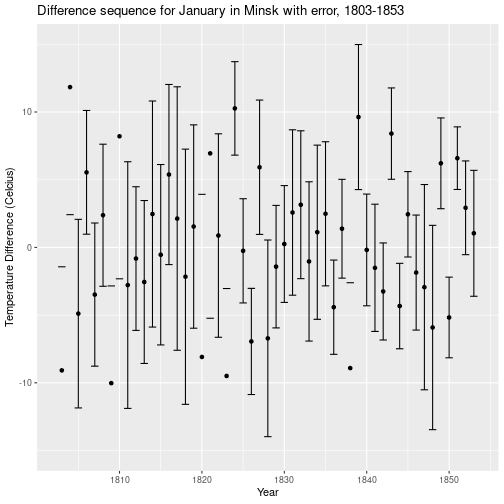
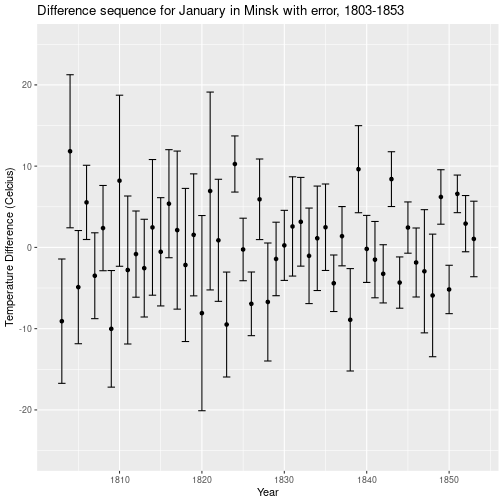
Latex Implementation

diff --git a/workspace.md b/workspace.md
@@ -184,16 +184,16 @@ time, which would indicate provable evidence of global warming.</p>
 
 ## Statistical Testing
 
-<p>I will first try a basic test, asking if the yearly difference sequence has a mean greater than zero, which would certainly imply increase in temperature over time. I will be using a significance level of \alpha = 0.05. I will perform this test on each month in turn, thus obtaining 12 complete tests for each location.</p>
+<p>My first test will be the most basic, asking if the yearly difference sequence has a mean greater than zero (which would certainly imply increase in temperature over time). I will perform this test on each month in turn, thus obtaining 12 complete tests for each location. This will also mean I need to be careful in my choice of significance level (&alpha;) if I want to contain the Family Wise Error Rate at 5% (more on this later).</p>
 
-<p>Some alternative methods include the following:</p>
+<p>My initial ideas for alternative testing methods include the following:</p>
 
 * Define a suitable year range (e.g. 1750-1900) as a "control" period, and testing if recent measurements fit within the control temperature distribution.
-* Take only the yearly highest temperatures, and perform the difference sequence test.
+* Take only the yearly highest temperatures, and perform the difference sequence test as before.
 
 ### Difference Sequence Generation
 
-First, obtain seperate data for each month and then convert the absolute data into yearly differences:
+For our first test, we want to split our data by month, and then convert the absolute temperature data into yearly differences:
 
 
 ```r
@@ -262,25 +262,31 @@ We need to bear uncertainty in mind, since the error in this data is quite signi
 
 
 ```r
-ggplot(minsk_data_month_diff[["Jan"]][c(50:100),]) + geom_point(aes(x = Date, y = Difference))  + geom_errorbar(aes(x = Date, y = Difference, ymin=Difference-DifferenceUncertainty, ymax=Difference+DifferenceUncertainty)) +ggtitle("Difference sequence for January in Minsk with error, 1803-1853") + xlab("Year") + ylab("Temperature Difference (Celcius)") + ylim(-15,15)
+ggplot(minsk_data_month_diff[["Jan"]][c(50:100),]) + geom_point(aes(x = Date, y = Difference))  + geom_errorbar(aes(x = Date, y = Difference, ymin=Difference-DifferenceUncertainty, ymax=Difference+DifferenceUncertainty)) +ggtitle("Difference sequence for January in Minsk with error, 1803-1853") + xlab("Year") + ylab("Temperature Difference (Celcius)") + ylim(-25,25)
 ```
 
 ![plot of chunk unnamed-chunk-14](Figures/EDA/EDA-unnamed-chunk-14-1.png)
 
 ```r
-ggplot(minsk_data_month_diff[["Jan"]][c(200:250),]) + geom_point(aes(x = Date, y = Difference))  + geom_errorbar(aes(x = Date, y = Difference, ymin=Difference-DifferenceUncertainty, ymax=Difference+DifferenceUncertainty)) +ggtitle("Difference sequence for January in Minsk with error, 1953-2003") + xlab("Year") + ylab("Temperature Difference (Celcius)") + ylim(-15,15)
+ggplot(minsk_data_month_diff[["Jan"]][c(200:250),]) + geom_point(aes(x = Date, y = Difference))  + geom_errorbar(aes(x = Date, y = Difference, ymin=Difference-DifferenceUncertainty, ymax=Difference+DifferenceUncertainty)) +ggtitle("Difference sequence for January in Minsk with error, 1953-2003") + xlab("Year") + ylab("Temperature Difference (Celcius)") + ylim(-25,25)
 ```
 
 ![plot of chunk unnamed-chunk-14](Figures/EDA/EDA-unnamed-chunk-14-2.png)
 
+As we can now see, the later difference values yield greatly reduced error bounds.
+
+
+
 ### Hypothesis Testing
 
-Now that we have our transformed difference sequence (X<sub>1</sub>,X<sub>2</sub>,...,X<sub>N</sub>), I will divide by the empirical standard deviation and test the following hypothesis.
+Now that we have our transformed difference sequences (X<sub>1</sub>,X<sub>2</sub>,...,X<sub>N</sub>) for each month, I will divide by the empirical standard deviation and test the following hypothesis:
 
-* H<sub>0</sub>: X<sub>1</sub>,...,X<sub>N</sub>$ ~ i.i.d normal(0,1)
-* H<sub>1</sub>: X<sub>1</sub>,...,X<sub>N</sub>$ ~ i.i.d normal(&mu;,1)   where &mu; > 0
+* H<sub>0</sub>: X<sub>1</sub>,...,X<sub>N</sub> ~ i.i.d normal(0,1)
+* H<sub>1</sub>: X<sub>1</sub>,...,X<sub>N</sub> ~ i.i.d normal(&mu;,1)   where &mu; > 0
 
-We want our test statistic here to be the most powerful possible (smallest type II error rate), which by the Neyman-Pearson Lemma is equivelant the mean of the difference sequence. For a proof of this, please see Section A in the appendix. With my data split into months, I can gather 12 p-values per year of data.
+Our null hypothesis is that the temperature has remained constant, and the alternative is that there has been an overall (but unspecified) increase in temperature. This is a one-tailed test, as our aim is to detect a positive increase in temperature change.
+
+We want our test statistic here to be the most powerful possible (smallest type II error rate), which by the Neyman-Pearson Lemma is equivelant the mean of the difference sequence. For a proof of this, please see Section A of the Appendix. With my data split into months, I can gather 12 p-values per year of data.
 
 Firstly to standardise the sequence:
 
@@ -303,6 +309,7 @@ head(minsk_data_month_diff[["Jan"]])
 ```
 And to obtain p-values:
 
+
 ```r
 p_values <- data.frame(Location=character(), JanPVal=integer(), FebPVal=integer(), MarPVal=integer(), AprPVal=integer(), MayPVal=integer(), JunPVal=integer(), JulPVal=integer(), AugPVal=integer(), SepPVal=integer(), OctPVal=integer(), NovPVal=integer(), DecPVal=integer(), stringsAsFactors = FALSE)
 pval_calculator_minsk <- function(mon){
@@ -323,4 +330,17 @@ p_values
 ## 1 0.477493564579728 0.484464615006393 0.49605084205147 0.467720525267789
 ##             DecPVal
 ## 1 0.480465612671691
+```
+For a single hypothesis test, the significance level &alpha; is normally chosen to be 0.05. This results in the type 1 error rate (the probability of a rejecting a true null hypothesis) being kept at 5%. However, with multiple tests, we must use a more conservative significance level in order to control the Family Wise Error Rate (the probability of rejecting at least one true null hypothesis). 
+
+
+Latex Tests
+
+Inline
+$`\sqrt{2}`$
+
+Environment
+
+```math
+\sqrt{2}
 ```
